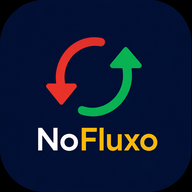
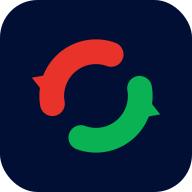
31

diff --git a/src/app/layout.tsx b/src/app/layout.tsx
@@ -50,8 +50,10 @@ export default function RootLayout({
     <html lang="pt-BR" suppressHydrationWarning>
       <head>
         <link rel="manifest" href="/manifest.json" />
-        <link rel="icon" type="image/png" href="/icon-192.png" />
-        <link rel="apple-touch-icon" href="/icon-192.png" />
+        <link rel="icon" href="/favicon.ico" sizes="any" />
+        <link rel="icon" type="image/png" sizes="32x32" href="/favicon-32.png" />
+        <link rel="icon" type="image/png" sizes="16x16" href="/favicon-16.png" />
+        <link rel="apple-touch-icon" href="/icon-512.png" />
         <meta name="apple-mobile-web-app-capable" content="yes" />
         <meta name="apple-mobile-web-app-status-bar-style" content="black-translucent" />
         <meta name="apple-mobile-web-app-title" content="NoFluxo" />

diff --git a/public/sw.js b/public/sw.js
@@ -4,12 +4,15 @@
 // IMPORTANT: bump this version string whenever static assets (icons, manifest)
 // change — otherwise phones that already installed the PWA keep serving the
 // old cached files (e.g. an outdated app icon) indefinitely.
-const CACHE_NAME = 'nofluxo-v2'
+const CACHE_NAME = 'nofluxo-v3'
 const STATIC_ASSETS = [
   '/',
   '/manifest.json',
   '/icon-192.png',
   '/icon-512.png',
+  '/favicon.ico',
+  '/favicon-32.png',
+  '/favicon-16.png',
 ]
 
 // Install: cache static assets
